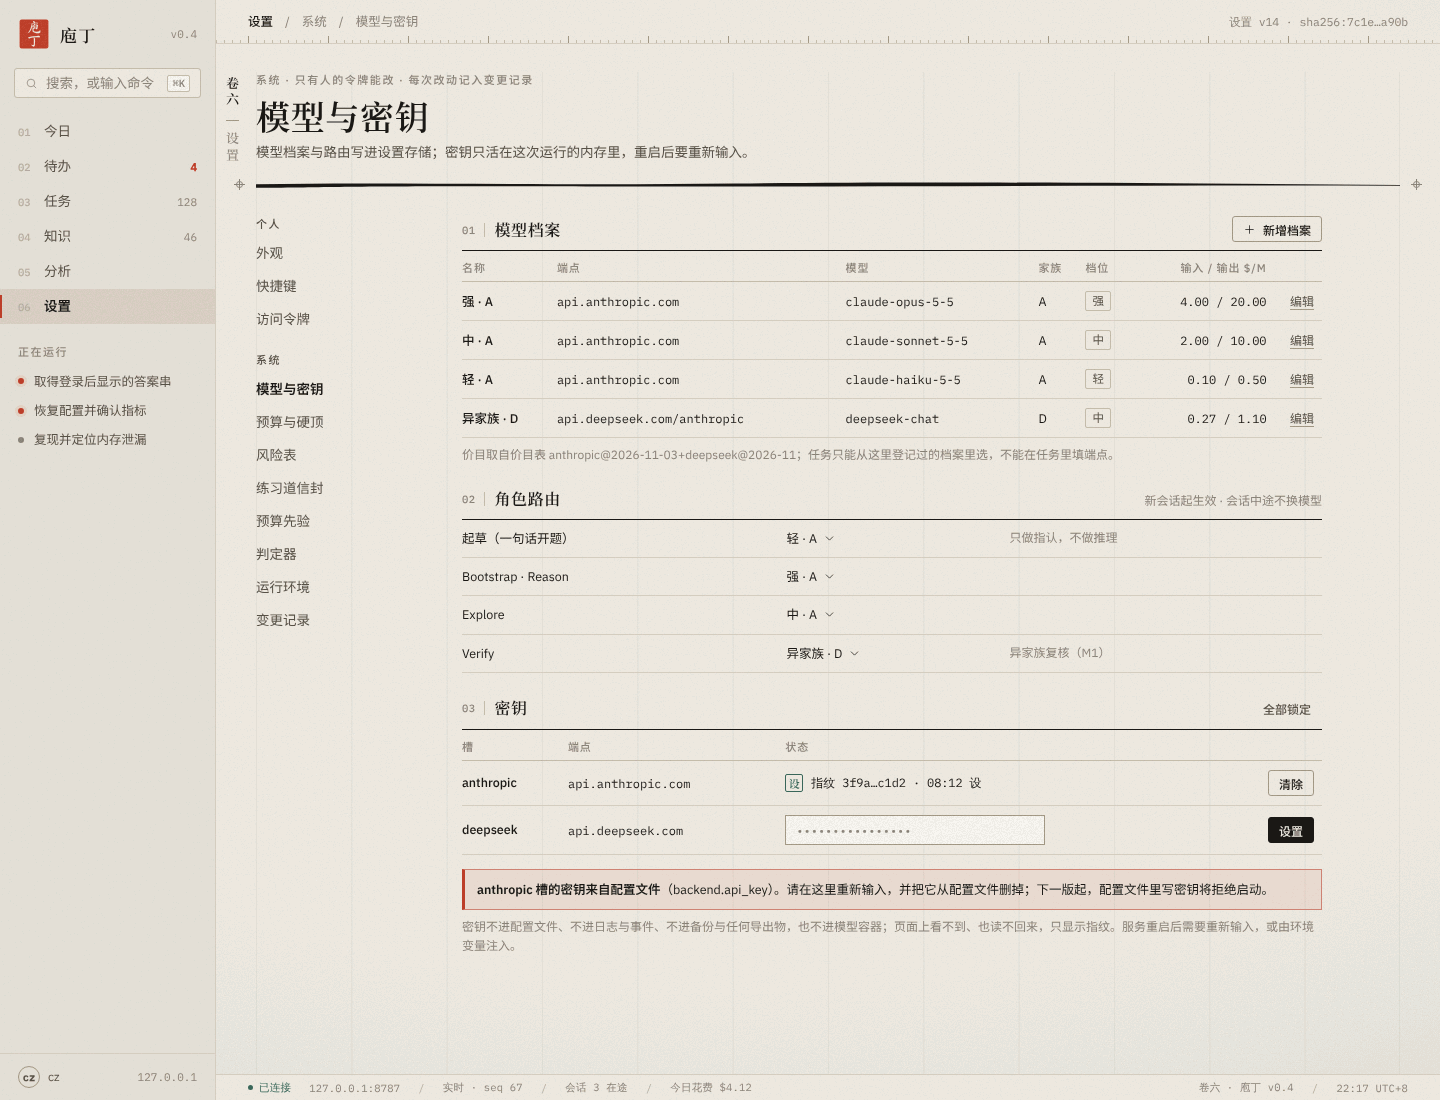
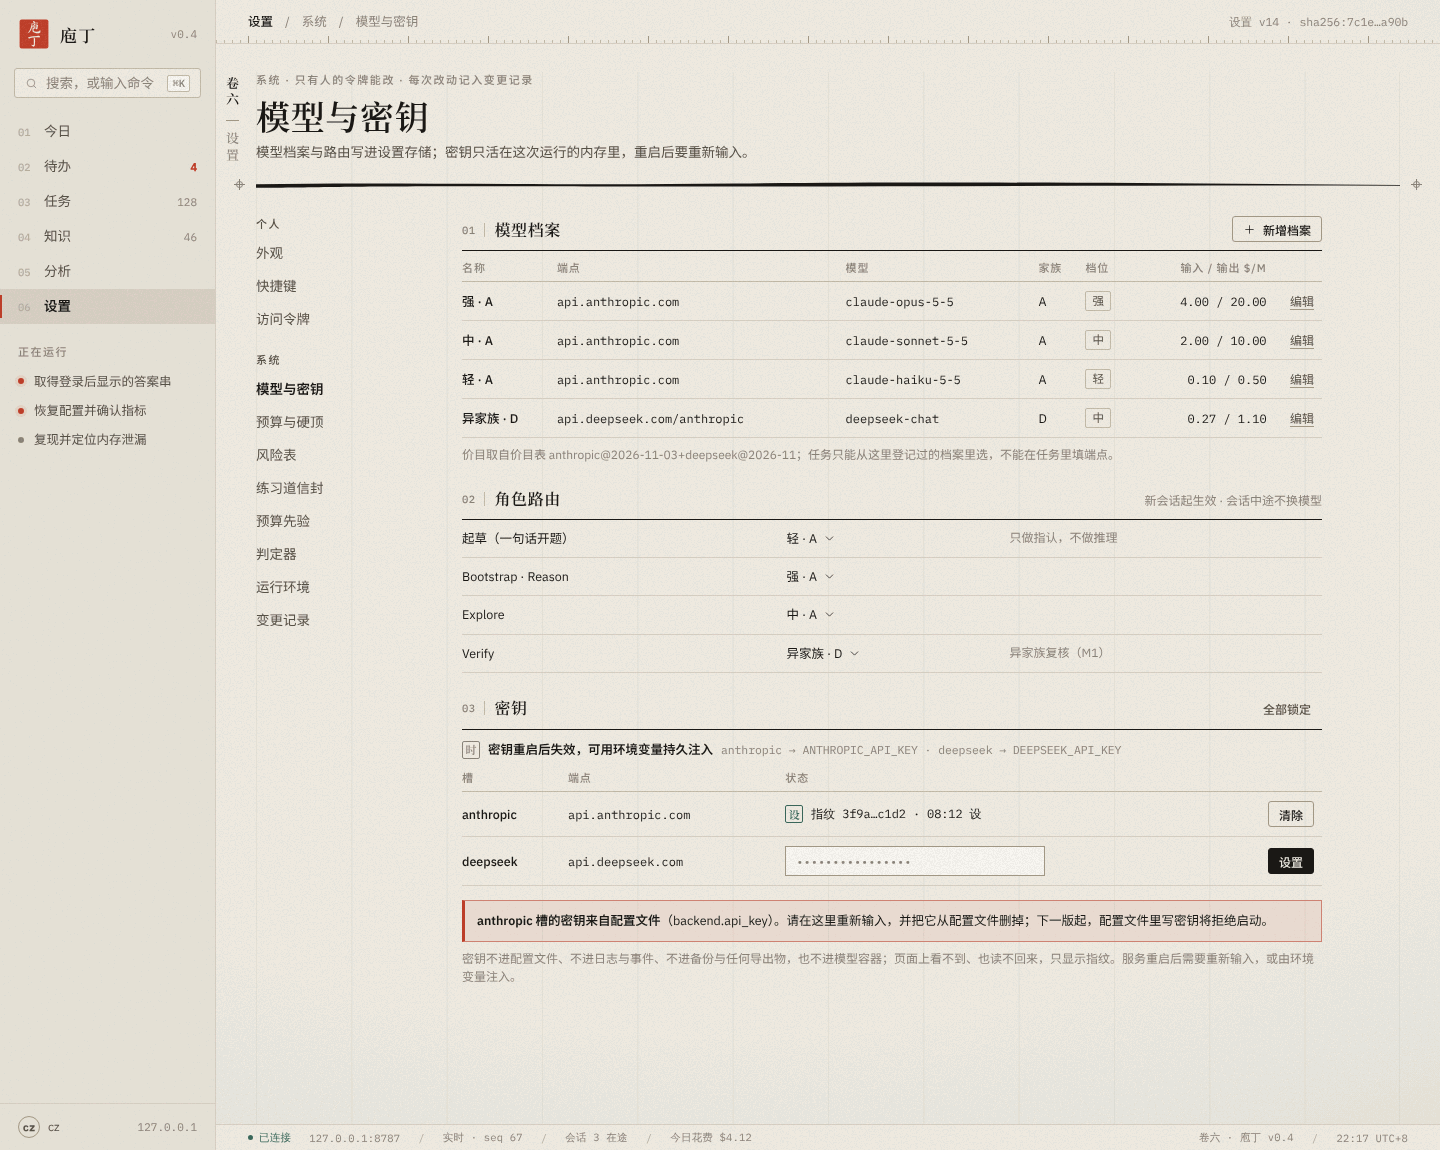
docs: 宪章并入 cz 裁决（D1–D8 全部采纳）与三条附加条件
01 补 §4 外部组件站位（题库服务、校准读数、评测台）；accepted 只经 B 道且与 solved 分开呈现；
设置页明示密钥重启后失效、可用环境变量持久注入；金丝雀测试进每期验收（AC-M5、AC-M6）。

Claude-Session: https://claude.ai/code/session_01Gnp7gsrbfif3X2yMfBe2RD

diff --git a/docs/design/task-lifecycle/wireframes/lifecycle.js b/docs/design/task-lifecycle/wireframes/lifecycle.js
@@ -127,6 +127,7 @@ function setModels() {
   <div class="sh sec"><h2>角色路由</h2><span class="sp"></span><span class="ink3" style="font-size:12px">新会话起生效 · 会话中途不换模型</span></div>
   <table class="tbl">${route('起草（一句话开题）', '轻 · A', '只做指认，不做推理')}${route('Bootstrap · Reason', '强 · A', '')}${route('Explore', '中 · A', '')}${route('Verify', '异家族 · D', '异家族复核（M1）')}</table>
   <div class="sh sec"><h2>密钥</h2><span class="sp"></span><span class="btn sm bare">全部锁定</span></div>
+  <div class="row" style="gap:8px;margin:10px 0 2px;font-size:12.5px"><span class="mk wei">时</span><b style="font-weight:600">密钥重启后失效，可用环境变量持久注入</b><span class="ink3 mono" style="font-size:11.5px">anthropic → ANTHROPIC_API_KEY · deepseek → DEEPSEEK_API_KEY</span></div>
   <table class="tbl"><tr><th>槽</th><th>端点</th><th>状态</th><th></th></tr>
     <tr><td><b style="font-weight:500">anthropic</b></td><td class="m">api.anthropic.com</td><td><span class="row" style="gap:8px"><span class="mk jie">设</span><span class="mono" style="font-size:12px">指纹 3f9a…c1d2 · 08:12 设</span></span></td><td class="r"><span class="btn sm">清除</span></td></tr>
     <tr><td><b style="font-weight:500">deepseek</b></td><td class="m">api.deepseek.com</td><td><span class="keybox">••••••••••••••••</span></td><td class="r"><span class="btn sm ink">设置</span></td></tr></table>

diff --git a/docs/design/task-lifecycle/README.md b/docs/design/task-lifecycle/README.md
@@ -1,6 +1,6 @@
-# 庖丁工作台产品宪章：任务全生命周期地图 v0.1
+# 庖丁工作台产品宪章：任务全生命周期地图 v0.2
 
-> 状态：待裁决（2026-11-19，cz 提出）。本目录只有设计，不含实现代码。
+> 状态：**已裁决**（2026-11-19，cz）：D1–D8 全部采纳，另有三条附加条件，见 §5。实现按 [04 §3](./04-gaps-roadmap.md#3-分期路线) 的 L1 起步。本目录只有设计，不含实现代码。
 > 输入：[基座规格 v1.5](../base-layer-spec-v1.md)（下称“规格”）、[HMI 设计 v1.1](../hmi-design-v1.md)、[工作台设计 v1](../web-workbench-v1.md)、[M2+ 三项能力设计](../m2-capabilities/README.md)、`web/SPEC.md`、第四版视觉原型（项目共享文件夹 `ui-redesign/v4/prototype/`）。
 > 并入：**一句话开题**（[`docs/design/kaiti/README.md`](../kaiti/README.md)，PR #83，与本文同时待裁决）。本文只把它放在地图的入口那一站（S1–S4），定义它与其它站的接口，用它的对象名（`Draft`、`vet() → Vetted`、`PriorSource`、练习道与确认道、练习道信封、`/new/advanced`），不重写它的推导与校验细节。两份文档冲突时，入口站以它为准，其余站以本文为准。
 > 约束：不读取任何本机题库或校准目录。预算先验按可插拔数据源设计，本文所有默认预算数字都来自〔占位〕表。
@@ -14,6 +14,7 @@
 5. **缺口清单**（[04](./04-gaps-roadmap.md)）共 47 个位置：完整 20、部分 12、无 15。最大的两个洞是：入口（S1–S4，一句话开题与确认卡都没有）和 B 道的终点（内核只接受 `accept: judge`，没有标准答案的任务今天根本开不了）。分期建议四步：L1 入口与设置层 → L2 无答案路径与验收 → L3 人的点位补齐（续期门、扩权卡、任务级模型偏好）→ L4 沉淀与并行，跟在 M2 的既定排序后面，不插队到 M1 的 G1 读数之前。
 6. **每项功能都有一条人能自己判断的验收标准**（[05](./05-acceptance.md)），写法是“人做什么、看到什么才算做好”，并对上一条自动化测试。
 7. **关键页面交互稿**（[06](./06-frontend.md)，截图在 `wireframes/`）延续第四版的纸、墨、朱印、界栏和编号：地图总览、设置·模型与密钥、设置·预算与先验、一步确认卡、验收三步、工作区站位条。
+8. **外部组件只在图外对接**（[01 §4](./01-journey-map.md#4-外部组件站位)）：题库服务与评测台不是站，它们只经命名的端口接到 S0、S1、S5、S11，不另画第二张图。
 
 ## 1. 硬约束与它们在图上的落点
 
@@ -81,11 +82,11 @@
 | [05-acceptance.md](./05-acceptance.md) | 每项功能的验收标准 | 要求 6 |
 | [06-frontend.md](./06-frontend.md) + `wireframes/` | 关键页面交互稿（第四版视觉语言） | 硬约束：视觉与交互稿 |
 
-## 5. 待裁决
+## 5. 裁决
 
-下列各条人可以逐条否决，否决后按“回退”一栏处理，其余不受影响。
+2026-11-19 cz 裁决：**D1 到 D8 全部采纳**，下表“回退”一栏不再适用，只留作记录。三条附加条件随裁决生效，见 §5.1。
 
-| # | 提议 | 回退 |
+| # | 提议 | 回退（未启用） |
 | --- | --- | --- |
 | D1 | 采纳十二站地图为工作台宪章；此后新需求按 §3 的修订规程进入 | 维持“按功能提需求” |
 | D2 | 四步向导降级为 S4 的“高级编辑”，路由移到 `/new/advanced`（与一句话开题一致），从确认卡、拒绝页、克隆带着出处记号进入；侧栏与 ⌘K 的“新建任务”都打开一句话输入框 `/new` | 向导与一句话入口并列 |
@@ -96,8 +97,15 @@
 | D7 | 零确认的放行条件取一句话开题的五条（练习道信封），本文再补一条“校验层没有收窄过任何字段”（[02 §2.2](./02-default-paths.md#22-零确认的放行条件)）；任一条不满足自动转确认道，而不是拒绝 | 只用一句话开题的五条 |
 | D8 | 分期按 [04 §3](./04-gaps-roadmap.md#3-分期路线) 的 L1–L4，L1 不插队到 M1 的 G1 读数（四臂与复做题组）之前 | 由人另排 |
 
+### 5.1 附加条件
+
+1. **D3 附加。** 验收清单 `goal.acceptance[]` 的条目来源与一句话开题同规则：只能是原文区间指认或人写，模型不得起草清单内容。终态 `accepted` 只经 B 道（`accept: human` 的题）产生，A 道与 B1 不出现 accepted。统计与读数永远把 accepted 与 solved 分开呈现，不合并成“完成数”或“成功率”的同一个分子。落点：[02 §3.3](./02-default-paths.md#33-验收清单b2-的判据先行)、[05 AC10.3、AC-M6](./05-acceptance.md)。
+2. **D4 附加。** 设置页的密钥一节明示“密钥重启后失效，可用环境变量持久注入”。金丝雀测试（密钥不进日志、事件、导出物）纳入**每一期**的验收标准，不只是 L1。落点：[03 §4.2](./03-settings.md#42-注入的两条路)、[05 AC-M5](./05-acceptance.md)、交互稿 `set-models`。
+3. **D1 附加。** 地图补一节“外部组件站位”，写明题库服务与评测台在图外的对接关系（练习题来源、对照读数来源），避免出现第二张图。落点：[01 §4](./01-journey-map.md#4-外部组件站位)。
+
 ## 附录 版本记录
 
 | 版本 | 日期 | 修订 | 裁决 |
 | --- | --- | --- | --- |
-| v0.1 | 2026-11-19 | 初稿 | 待裁决 |
+| v0.1 | 2026-11-19 | 初稿 | — |
+| v0.2 | 2026-11-19 | 并入裁决与三条附加条件；01 补 §4 外部组件站位；05 补 AC-M5、AC-M6 | cz：D1–D8 全部采纳 |

diff --git a/docs/design/task-lifecycle/05-acceptance.md b/docs/design/task-lifecycle/05-acceptance.md
@@ -8,7 +8,7 @@
 | # | 功能 | 人怎么判断做好了 | 自动化检查 | 关联 |
 | --- | --- | --- | --- | --- |
 | AC0.1 | 设置存储 | 在设置页把单题硬顶从 $20 改成 $10，刷新、重启服务后仍是 $10；“变更记录”里看到一行：谁、何时、旧值、新值；新开一道题，它的详情里设置版本号变了，旧题的不变 | 写入后读回相等；重启后相等；两人同时改，后到者 409；`open_problem` 事件体的 `settings_digest` 等于写入时的摘要 | Q1、Q12 |
-| AC0.2 | 密钥只在内存 | 在设置页输入密钥后，页面只显示“已设 · 指纹 ab12…9f3c”；重启服务后显示“未设”，真实后端的任务开不了会话并提示去设置页；在数据目录、日志、备份包、`pd report` 输出、评测记录里搜这串密钥，一处都搜不到 | 金丝雀测试（03 §4.4）；读端点的响应 Schema 里没有密钥字段；日志遮盖的单元测试 | Q2 |
+| AC0.2 | 密钥只在内存 | 设置页密钥一节写着“密钥重启后失效，可用环境变量持久注入”；输入密钥后，页面只显示“已设 · 指纹 ab12…9f3c”；重启服务后显示“未设”，真实后端的任务开不了会话并提示去设置页；在数据目录、日志、备份包、`pd report` 输出、评测记录里搜这串密钥，一处都搜不到 | 金丝雀测试（03 §4.4）；读端点的响应 Schema 里没有密钥字段；日志遮盖的单元测试 | Q2 |
 | AC0.3 | 三道硬顶 | 设置页上三道顶画成一把尺子，练习上限 ≤ 单题硬顶 ≤ 全局硬顶；试着把练习上限设得比单题硬顶大，保存被拒并说明原因；用向导开一道预算超过单题硬顶的题，被拒，拒绝码翻成人话 | 设置存储的次序校验；`open_problem` 超单题硬顶返回 `over_budget`；代理的 `global_cap_exhausted` 测试改为读设置存储的值 | Q3 |
 | AC0.4 | 先验源是占位表时人看得出来 | 设置页“预算先验”一节和每张确认卡上都写着“占位表：数字没有读数依据”；换上测试方的表并重启起草服务后，这行字消失，版本号变了 | `vet` 输出的出处账带先验表版本；`source: placeholder` 时确认卡快照里有该文案 | Q5 |
 | AC0.5 | 任务级不能越过全局 | 在确认卡上把金额改到超过单题硬顶，开始按钮变灰并标出上限；把模型档案下拉框打开，里面只有设置页登记过的档案，没有“自定义端点” | 前端：确认卡的金额校验；后端：`open_problem` 校验 `prefs.model` 在已登记档案内，否则 `unknown_ref` | Q12、Q14 |
@@ -66,3 +66,5 @@
 | AC-M2 | 每一站有且只有一个主责方，没有一站由“模型”保证一个事实 | 01 §2 的不变量表里没有“由模型保证” |
 | AC-M3 | 三处编号一致 | 01 的 Q#、AC#，04 的 Q#、K#，05 的 AC# 交叉引用全部可解析（可以写一个文档检查脚本，进 CI） |
 | AC-M4 | 新需求先修图 | 实现 PR 的描述里引用它落地的 Q#；没有 Q# 的功能 PR 先补修订 |
+| AC-M5 | 每一期都过金丝雀（裁决附加 2） | L0 到 L4 每一期的验收都包含 03 §4.4 的金丝雀测试：注入一个形如真密钥的串，跑完该期新增的全部路径（新端点、新导出物、新日志），在数据目录、日志、事件、导出物、容器环境、会话转录里逐字搜不到它 |
+| AC-M6 | accepted 与 solved 永远分开（裁决附加 1） | 今日、任务库、读数页、`pd status`、`pd report`、评测记录各查一遍：两者分开计数，没有把 accepted 计进“已解出”或成功率分子的地方；文案扫描进 CI |

diff --git a/docs/design/task-lifecycle/01-journey-map.md b/docs/design/task-lifecycle/01-journey-map.md
@@ -157,3 +157,18 @@
 | 评测台 | `eval/`（baseline、full、Bk、Bn） | A 道的评测形态 | 题组预登记，见 [02 §2.4](./02-default-paths.md#24-评测是-a-道的批量形态) |
 | 通鉴记忆 | `tongjian/` | S5 召回、S11 沉淀 | v1.5 |
 | 一句话开题 | `docs/design/kaiti/`（PR #83，待裁决） | S1–S4 | 入口站：输入框、`Draft`、`vet`、练习道与确认道、拒绝页、高级模式 |
+
+## 4. 外部组件站位
+
+> 裁决附加 3（2026-11-19）：题库服务与评测台在图外，只经命名的端口接进来，不另画第二张图。它们自己的内部流程（出题、跑臂、收集）不是站；凡是要进入题目日志的东西，都经下表的端口走某一站，按那一站的规则处理。
+
+| 外部组件 | 是什么 | 接哪一站 | 方向与端口 | 它给地图什么 | 它永远不做 |
+| --- | --- | --- | --- | --- | --- |
+| 题库服务 | 测试方维护的题目与答案集，可能在本机或别处；**系统不读取、不推导任何本机题库或校准目录** | S1 说出来 | 推入：经导入（JSON、CSV，K1）或 `pd kaiti` 逐题成草稿；答案经 `PUT /v1/vault` 写进保密库 | **练习题来源**：A 道（练习道）的题从这里来；v1.5 的“练习化”标准案例也从这里来 | 不直接写图服务；不绕过 S3 校验与练习道信封；不让起草模型看到答案 |
+| 题库服务的校准读数 | 测试方按档位整理的花费读数 | S0 设置（预算先验） | 推入：一份“档位 → 默认预算”表，经 `PriorSource` 注入（一句话开题 §5.2） | 确认卡与回执上的默认预算 | 不进等级、消费门与画像（I8）；不越过三道硬顶 |
+| 评测台 `eval/` | 对照实验运行器：baseline、full、Bk、Bn 各臂 | full 臂接 S5；读数接 S11 | full 臂经 `POST /v1/problems` 开题，与人的开题同一条路（题组一次预登记，见 02 §2.4）；baseline、Bk、Bn 臂不经图服务，在执行层同款沙箱里跑 | **对照读数来源**：`docs/m1/readings/` 的原始记录与 `meta.json`，读数页（S11）与评分报告读它 | 不往题目日志写 baseline 臂的任何东西；不把对照读数当作某道题的证据；不改判官或判据 |
+
+两条边界规则：
+
+1. **只经端口进图。** 外部组件的产出要么成为某一站的输入（草稿、先验表、开题请求），要么成为 S11 的读数；不存在“外部组件直接改某道题状态”的路径。新外部组件接入时，按宪章 §3 的修订规程在本表加一行，写清它接哪一站、经哪个端口、永远不做什么。
+2. **读数分开。** 评测台的读数按臂、按终态分列；accepted 与 solved 永远分开计数（裁决附加 1）。

diff --git a/docs/design/task-lifecycle/03-settings.md b/docs/design/task-lifecycle/03-settings.md
@@ -84,7 +84,7 @@ task.model        := task.prefs.model ∈ 已登记档案 ? 它 : 全局路由
 | 设置页 | 密码框输入 → `PUT /v1/keys/{slot}`（人的令牌，只在本机回环地址）→ 代理钥匙环；提交后输入框清空，浏览器不在任何存储里留它 | 日常使用 |
 | 环境变量 | 启动时读 `api_key_env` 指定的变量（已有），读完写进钥匙环 | 无界面的部署、评测台 |
 
-设置页的“密钥”一节还有两个按钮：“清除”（`DELETE /v1/keys/{slot}`，立即生效，在途请求按 401 失败）与“全部锁定”（清空钥匙环）。
+设置页的“密钥”一节常显一行（裁决附加 2）：**“密钥重启后失效，可用环境变量持久注入”**，并写出该槽对应的环境变量名。还有两个按钮：“清除”（`DELETE /v1/keys/{slot}`，立即生效，在途请求按 401 失败）与“全部锁定”（清空钥匙环）。
 
 ### 4.3 与现状的冲突（D4）
 
@@ -92,7 +92,7 @@ task.model        := task.prefs.model ∈ 已登记档案 ? 它 : 全局路由
 
 ### 4.4 证明它做到了
 
-金丝雀测试（进 CI）：以一个形如真密钥的随机串注入钥匙环，跑一遍全栈端到端（开题、会话、判定、关题、备份、`pd report`、`eval collect`），然后在数据目录、日志、备份包、导出文件、容器环境变量、会话转录里逐字搜这个串，命中即失败。另有一条：杀掉进程再起，钥匙环为空，真实后端拒绝开会话并在设置页提示“密钥未设”。
+金丝雀测试（进 CI；裁决附加 2：**纳入每一期的验收标准**，见 05 的 AC-M5）：以一个形如真密钥的随机串注入钥匙环，跑一遍全栈端到端（开题、会话、判定、关题、备份、`pd report`、`eval collect`），然后在数据目录、日志、备份包、导出文件、容器环境变量、会话转录里逐字搜这个串，命中即失败。另有一条：杀掉进程再起，钥匙环为空，真实后端拒绝开会话并在设置页提示“密钥未设”。
 
 ## 5. 预算：三道硬顶
 

diff --git a/docs/design/task-lifecycle/04-gaps-roadmap.md b/docs/design/task-lifecycle/04-gaps-roadmap.md
@@ -65,13 +65,15 @@
 
 ## 3. 分期路线
 
+**裁决（2026-11-19）**：cz 采纳本节分期，可以按 L1 开始出实现 PR；每一期的验收都包含金丝雀测试（05 AC-M5）。
+
 排序的依据：先让“地图有入口、有设置”，再让“没有标准答案的任务能走完”，再补人的点位，最后是沉淀。每一期都不改变已有站的语义，只填空位。整条线排在项目既定次序之后：M1 收尾（G1 四臂与复做题组）→ M2 前半（记忆、`touches`）→ M2 后半（资产）→ G1 达标后并行。下面的 L1 可以与 M2 前半并行做，但不挤占 G1 读数。
 
 | 期 | 目标（做完时人能做到什么） | 包含 | 前提 |
 | --- | --- | --- | --- |
 | L0 已排队 | 证明计划开跑前的两条 follow-up | Q17、Q25 | 无（cz 2026-11-19 已记） |
 | L1 入口与设置 | 人贴一段话就能开出一道有标准答案的题（先全走确认道）；在设置页配好模型、密钥、硬顶，不碰配置文件 | Q1、Q2、Q3、Q5、Q6、Q7、Q8、Q9、Q10（除验收清单块）、Q11、Q12（digest）、Q27 | 本图与 kaiti 裁决 |
-| L1b 零确认 | 有标准答案的练习题零确认直开 | Q4 | L1 合入；kaiti §10 第 3 条的精确率达到 100% |
+| L1b 零确认 | 有标准答案的练习题零确认直开 | Q4 | L1 合入；放行开关在测试方，按 kaiti §10.3 的精确率读数放行（cz 2026-11-19） |
 | L2 无答案路径 | 没有标准答案的自由任务能开题、执行、按验收清单验收，终态 accepted | Q13、Q16、Q21、Q22、Q23、Q10 的验收清单块 | D3 采纳 |
 | L3 人的点位补齐 | 续期门可用；扩权看得到差异；任务可选模型；看得到每个会话花了多少 | Q12（prefs）、Q14、Q15、Q18、Q19、Q20（若裁决为做）、Q26 | M1 的续期门；工作台第四期的读端点 |
 | L4 沉淀 | 第二次做同类任务时默认值来自花费画像而不是占位表；资产有出处门与对照门 | Q24（及先验源接上花费画像） | M2 后半；G1 达标 |
